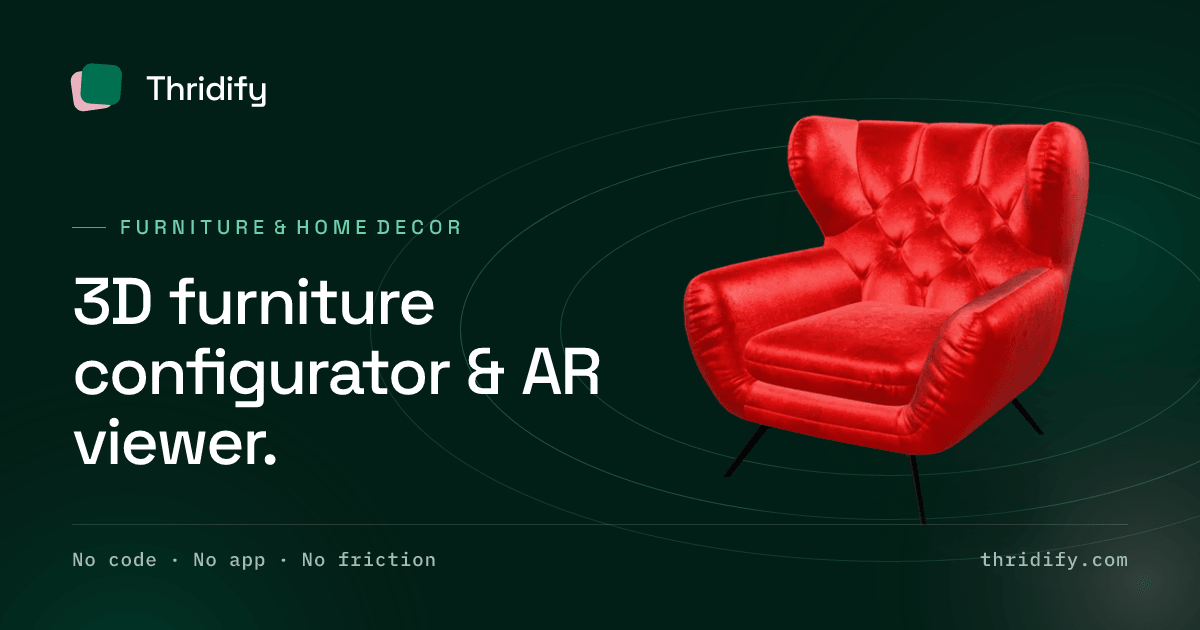
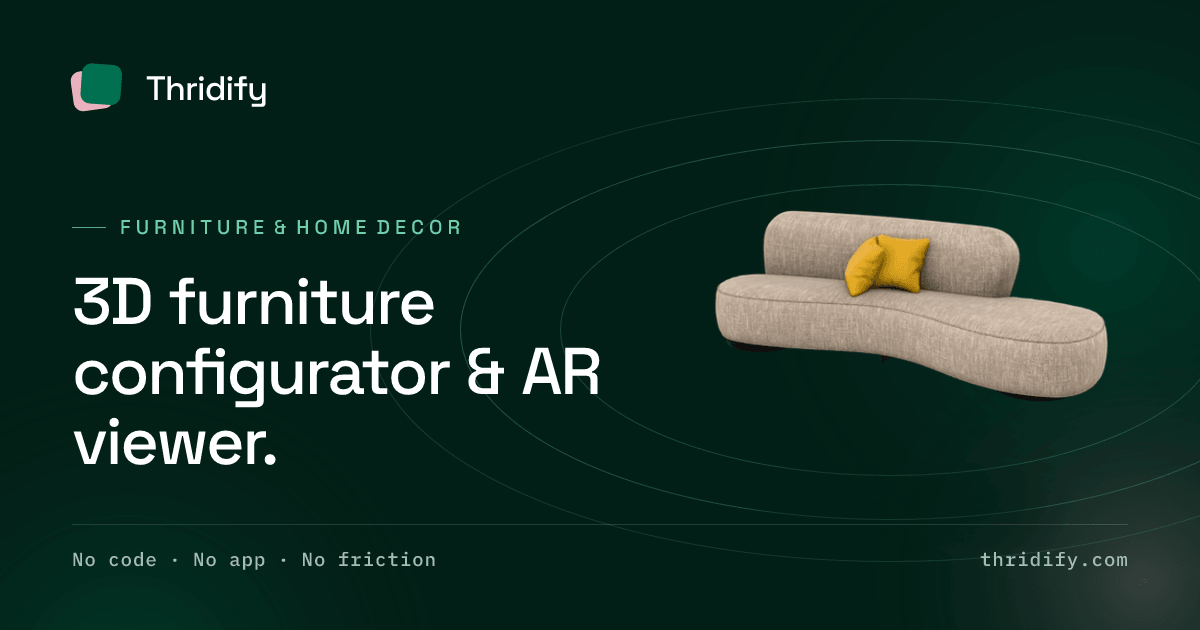
feat(imagery): user-selected Thridify products on the industries hub, with variant and veneer switches
Hub cards + industry OGs now use the six products chosen for each vertical
(admin preview ids in src/lib/industries.ts), rendered from their own GLBs:

- Furniture: Store Living Room Sofa, turntable
- Kitchens & wardrobes: Modern Wardrobe, default variant with its Maple Dark
  design texture applied, front sway
- Doors & windows: Door — all eight real variants rendered from one fixed
  camera and cross-faded (variant switch)
- Prefab: Studio Apartment, roofless dollhouse view from above, turntable
  (prefab previously had no art)
- Industrial machinery: industrial water cooler, Pink variant, turntable
- Laminates: single-wall kitchen cycling eight Woodlark veneers via live
  base-colour texture swaps (finish switch)

Preview ids resolve through api.thridify.com (GLB, variants, hiddenMeshes,
design textures); the renderer keeps one variant's root nodes, can pre-apply
design textures and swap them per frame. Reduced-motion still frames kept.

Changed region(s): [[0.555, 0.181, 0.925, 0.8143], [0.5858, 0.7238, 0.6167, 0.754]]

diff --git a/src/lib/industries.ts b/src/lib/industries.ts
@@ -69,14 +69,13 @@ export type Industry = {
       docs/ASSET-DEBT.md). Real client models replace these later (#16). */
   demoModel?: string;
   demoPoster?: string;
-  /** Hub-card + OG artwork: a transparent render of the REAL Thridify
-      demo-store product this industry's live hero shows (INDUSTRY_EXPERIENCE
-      in src/lib/thridify.ts), rendered from the product's own GLB with
-      <model-viewer> — `still` is one frame, `turn` a slow animated WebP
-      (turntable or a limited sway where the object only reads from one
-      side). Served with a reduced-motion <picture> fallback to the still.
-      Absent when the live product has no usable object render (prefab's
-      "realistic room" is an enclosed interior — docs/ASSET-DEBT.md #19). */
+  /** Hub-card + OG artwork: a transparent render of a REAL Thridify product
+      chosen per industry (admin preview ids in the comments below), rendered
+      from the product's own GLB with <model-viewer> — `still` is one frame,
+      `turn` a slow animated WebP: a turntable, a limited sway, or a
+      variant / finish switch cross-fading through the product's real
+      options. Served with a reduced-motion <picture> fallback to the still.
+      Pipeline + product list: docs/ASSET-DEBT.md #19. */
   hubArt?: { still: string; turn: string; alt: string };
   primaryKeyword: string;
   keywords: string[];
@@ -106,10 +105,11 @@ export const INDUSTRIES: Industry[] = [
     heroDemo: 'ar',
     demoModel: '/models/furniture-vase.glb',
     demoPoster: '/models/furniture-vase-poster.webp',
+    // admin.thridify.com/p/1fxaka — Store Living Room Sofa (turntable)
     hubArt: {
       still: '/models/hub-furniture-still.webp',
       turn: '/models/hub-furniture-turn.webp',
-      alt: 'Store Modern Sofa — the live Thridify demo product on this page, rendered in 3D',
+      alt: 'Store Living Room Sofa — a Thridify 3D product, rotating',
     },
     primaryKeyword: '3D furniture configurator',
     keywords: [
@@ -181,10 +181,11 @@ export const INDUSTRIES: Industry[] = [
     heroDemo: 'configurator',
     demoModel: '/models/kitchen-teacup.glb',
     demoPoster: '/models/kitchen-teacup-poster.webp',
+    // admin.thridify.com/p/dcnt2x — Modern Wardrobe, Maple Dark finish (sway)
     hubArt: {
-      still: '/models/hub-kitchen-still.webp',
-      turn: '/models/hub-kitchen-turn.webp',
-      alt: 'Store ModularKitchen — the live Thridify demo kitchen on this page, rendered in 3D',
+      still: '/models/hub-wardrobe-still.webp',
+      turn: '/models/hub-wardrobe-turn.webp',
+      alt: 'Modern Wardrobe in Maple Dark — a Thridify 3D product',
     },
     primaryKeyword: 'modular kitchen 3D design tool',
     keywords: [
@@ -256,10 +257,11 @@ export const INDUSTRIES: Industry[] = [
     heroDemo: 'configurator',
     demoModel: '/models/doors-lantern.glb',
     demoPoster: '/models/doors-lantern-poster.webp',
+    // admin.thridify.com/p/gmqb_q — Door, cycling its eight real variants
     hubArt: {
       still: '/models/hub-door-still.webp',
       turn: '/models/hub-door-turn.webp',
-      alt: 'DNV Door — the live Thridify demo door on this page, rendered in 3D',
+      alt: 'A Thridify 3D door product switching between its eight variants',
     },
     primaryKeyword: 'door & window configurator',
     keywords: [
@@ -328,6 +330,12 @@ export const INDUSTRIES: Industry[] = [
     name: 'Prefab & Modular Structures',
     gridName: 'Prefab & Modular Structures',
     icon: 'prefab',
+    // admin.thridify.com/p/cmbneh — Studio Apartment, roofless dollhouse view (turntable)
+    hubArt: {
+      still: '/models/hub-studio-still.webp',
+      turn: '/models/hub-studio-turn.webp',
+      alt: 'Studio apartment — a Thridify 3D space seen from above, rotating',
+    },
     heroDemo: 'viewer',
     primaryKeyword: 'prefab 3D configurator',
     keywords: [
@@ -399,10 +407,11 @@ export const INDUSTRIES: Industry[] = [
     heroDemo: 'viewer',
     demoModel: '/models/machinery-camera.glb',
     demoPoster: '/models/machinery-camera-poster.webp',
+    // admin.thridify.com/p/34zvplz0gw8 — industrial water cooler, Pink variant (turntable)
     hubArt: {
-      still: '/models/hub-robot-still.webp',
-      turn: '/models/hub-robot-turn.webp',
-      alt: 'RobotExpressive — the live Thridify automation demo on this page, rendered in 3D',
+      still: '/models/hub-cooler-still.webp',
+      turn: '/models/hub-cooler-turn.webp',
+      alt: 'Industrial water cooler — a Thridify 3D product, rotating',
     },
     primaryKeyword: '3D product viewer for machinery',
     keywords: [
@@ -474,10 +483,11 @@ export const INDUSTRIES: Industry[] = [
     heroDemo: 'configurator',
     demoModel: '/models/surfaces-material.glb',
     demoPoster: '/models/surfaces-material-poster.webp',
+    // admin.thridify.com/p/zmg1cx — single-wall kitchen cycling Woodlark veneers
     hubArt: {
-      still: '/models/hub-laminate-still.webp',
-      turn: '/models/hub-laminate-turn.webp',
-      alt: 'Merino Marine Board — the live Thridify demo laminate on this page, rendered in 3D',
+      still: '/models/hub-veneer-still.webp',
+      turn: '/models/hub-veneer-turn.webp',
+      alt: 'A Thridify 3D kitchen switching between Woodlark veneer finishes',
     },
     primaryKeyword: 'laminate visualizer',
     keywords: [

diff --git a/src/app/industries/page.tsx b/src/app/industries/page.tsx
@@ -124,7 +124,7 @@ export default function IndustriesPage() {
                       <Icon className="w-6 h-6" strokeWidth={1.5} aria-hidden />
                     </span>
                     {ind.hubArt && (
-                      <span className="relative w-36 h-36 -mr-6 -mt-10 shrink-0">
+                      <span className="relative w-36 h-36 -mr-5 -mt-5 shrink-0">
                         <span className="absolute inset-3 rounded-full bg-primary/10 blur-2xl group-hover:bg-primary/15 transition-colors" aria-hidden />
                         <picture>
                           <source srcSet={ind.hubArt.still} media="(prefers-reduced-motion: reduce)" />

diff --git a/docs/ASSET-DEBT.md b/docs/ASSET-DEBT.md
@@ -23,7 +23,7 @@ entries; only the user (or real assets) can clear them.
 | 14 | Real product-render OG images (1200×630) per page | **REBUILT IN THE LUXURY DESIGN LANGUAGE (2026-09-09):** `scripts/generate-og.mjs` now renders via satori + resvg (Space Grotesk / Inter / IBM Plex Mono, fetched + cached on first run) — ink ground, layered teal + one-pink light fields, hairline orbits, mono kicker — and composites the page's OWN seamless demo poster (`public/models/*-poster.webp`, the CC0 stand-ins of #19) where one exists (home/default/platform/3D-modelling → chair; five industries → their industry model; prefab has none). Added per-page OGs for `/features`, `/what-is-thridify`, `/industries`, `/integrations` and all 12 `/integrations/<slug>` (typographic, no third-party logos). Still placeholders in the sense of #16/#19: when real client models land, re-render the posters and re-run the script. Previously: brand-colored generated statics at `public/og/*.png` (regenerate with `node scripts/generate-og.mjs`); wired via per-page `openGraph.images` + `metadataBase` (SITE_URL env, currently the workers.dev preview — switch to the production host at Phase 7). **CHUNK 3 (2026-08-02) added six per-industry OGs** `public/og/industry-<slug>.png` (furniture, modular-kitchens, doors-and-windows, prefab-structures, industrial-machinery, laminates-surfaces) — same brand-placeholder treatment; replace each with a real per-industry product render | 2, 6, 7 |
 | 15 | Real team / office / founder photography for the About page (or a decision to stay abstract) | Phase 2 removed ALL Unsplash stock (DESIGN-SPEC §6); About now uses brand logo-geometry only | 2, 6 |
 | 16 | **Real Thridify experience embeds** (the actual configurator on the actual SDK) for the hero, the BeforeAfter "live 3D", and every `CapabilityDemo` (home trio + platform) | Placeholder first-party CC0 SheenChair (`public/models/sheen-chair.glb`) driven via `<model-viewer>`. Blocked on the SDK standalone-embed work specified in `docs/integration/HERO-EMBED-REQUIREMENTS.md` + `SDK-EMBED-PROPOSAL.md` (stable experience id, `thridify-marketing` demo account, origin allowlist, poster/LCP contract, events API). When it lands: swap `<model-viewer>` for `Thridify.mount()`, and regenerate every poster from the real experience's first frame (#9 rule). Also supplies the real product photo + matching model for the BeforeAfter "flat photo vs same product in 3D" comparison | 2, 5, 6 |
-| 19 | **HUB CARDS + INDUSTRY OGs NOW SHOW THE REAL DEMO-STORE PRODUCTS (2026-09-09):** `Industry.hubArt` renders (`public/models/hub-<x>-{still,turn}.webp`) are transparent turntables/sways of the ACTUAL Thridify demo products each industry page shows live (Store Modern Sofa, Store ModularKitchen, DNV Door, RobotExpressive, Merino Marine Board), rendered from their own GLBs with `<model-viewer>` (scratchpad `render-turntable.mjs` + `assemble.mjs`; re-render when the demo products change). Prefab has none: its live product ("realistic room") is an enclosed interior with a roof — no usable object render; wants a real prefab/cabin model. The CC0 stand-ins below remain ONLY as the `CapabilityDemo` fallback models. **Per-industry demo models (Phase 3 Wave A, CHUNK 3, 2026-08-02).** Each industry page now shows a DISTINCT, industry-relevant CC0 model instead of the generic hero chair, via `CapabilityDemo` `model`/`poster`/`modelLabel` props + `Industry.demoModel/demoPoster` (`src/lib/industries.ts`). All self-hosted in `public/models/`, draco+WebP-optimised ≤2MB, with seamless posters (§6). Provenance: `public/models/SOURCES.md` (all CC0 1.0, Khronos glTF-Sample-Assets). Mapping: furniture→GlassVaseFlowers (home decor, good); modular-kitchens→teacup (closest CC0 kitchenware — want a real cabinet/kitchen unit); doors-and-windows→Lantern (closest CC0 glass fixture — want a real door/window); industrial-machinery→AntiqueCamera (closest CC0 mechanical apparatus — want real equipment); laminates-surfaces→MetalRoughSpheres material sample (reasonable). **PREFAB & MODULAR STRUCTURES: NO usable CC0 structure/building model exists** (VirtualCity = testing-license-only; Sponza = LFS-gated), so `/industries/prefab-structures` still uses the chair fallback — awaiting a real structure model. ALL SIX ultimately want real client models (#16); replace + regenerate posters then | 2, 6 |
+| 19 | **HUB CARDS + INDUSTRY OGs SHOW REAL THRIDIFY PRODUCTS (2026-09-09, user-selected):** `Industry.hubArt` renders (`public/models/hub-<x>-{still,turn}.webp`, 300–520 KB animated WebP + a still for reduced motion) come from the products' own GLBs rendered with `<model-viewer>` in headless Chrome: furniture → Store Living Room Sofa `p/1fxaka` (turntable); kitchens & wardrobes → Modern Wardrobe `p/dcnt2x`, default variant with its Maple Dark design texture applied (sway); doors → Door `p/gmqb_q`, all EIGHT variants rendered from one fixed camera and cross-faded (variant switch); prefab → Studio Apartment `p/cmbneh`, roofless dollhouse view from above (turntable); machinery → industrial water cooler `p/34zvplz0gw8`, Pink variant textures applied (turntable); laminates → single-wall kitchen `p/zmg1cx` cycling eight Woodlark veneers (H41, H5, H17, H28, H50, H61, H70, H1) via live base-colour swaps (finish switch). Preview ids resolve through `api.thridify.com/v2/customer/product/preview/<id>` (GLB url, variants + hiddenMeshes, design textures). Pipeline lives in the session scratchpad (`resolve.mjs`, `pick-scene.mjs` keeps one variant's root nodes, `render-turntable.mjs` with `pretex`/`swap`, `assemble.mjs`, `assemble-switch.mjs`) — re-run when products change. The CC0 stand-ins below remain ONLY as the `CapabilityDemo` fallback models. **Per-industry demo models (Phase 3 Wave A, CHUNK 3, 2026-08-02).** Each industry page now shows a DISTINCT, industry-relevant CC0 model instead of the generic hero chair, via `CapabilityDemo` `model`/`poster`/`modelLabel` props + `Industry.demoModel/demoPoster` (`src/lib/industries.ts`). All self-hosted in `public/models/`, draco+WebP-optimised ≤2MB, with seamless posters (§6). Provenance: `public/models/SOURCES.md` (all CC0 1.0, Khronos glTF-Sample-Assets). Mapping: furniture→GlassVaseFlowers (home decor, good); modular-kitchens→teacup (closest CC0 kitchenware — want a real cabinet/kitchen unit); doors-and-windows→Lantern (closest CC0 glass fixture — want a real door/window); industrial-machinery→AntiqueCamera (closest CC0 mechanical apparatus — want real equipment); laminates-surfaces→MetalRoughSpheres material sample (reasonable). **PREFAB & MODULAR STRUCTURES: NO usable CC0 structure/building model exists** (VirtualCity = testing-license-only; Sponza = LFS-gated), so `/industries/prefab-structures` still uses the chair fallback — awaiting a real structure model. ALL SIX ultimately want real client models (#16); replace + regenerate posters then | 2, 6 |
 | 18 | **Positioning correction — "3D Content Generation" → "3D Modelling Service" (Phase 3 Wave A, CHUNK 1, 2026-08-02).** Thridify does NOT do automated 3D content generation; module #4 is now a human-delivered **3D Modelling Service** (catalog → photoreal glTF/GLB/USDZ, done-for-you). Replaced sitewide: `content/site.json` (platform product #4 id `content`→`modelling`, platform hero subtitle, about mission body, furniture industry blurb, footer Platform link → `/services/3d-modelling`); `ProductVisual` variant `content`→`modelling`; `/platform` metadata + a deep-dive link to the service page; new SEO page `src/app/services/3d-modelling/page.tsx` (Service + FAQPage + BreadcrumbList JSON-LD, wedge copy) added to sitemap + linked from every industry page; new OG `public/og/services-3d-modelling.png`. **KNOWLEDGE-BANK CORRECTION NEEDED (out of repo scope — orchestrator action):** the `thridify-business` KNOWLEDGE-BANK skill still lists "3D Content Generation" as product #4 and must be corrected to "3D Modelling Service" so future generations don't reintroduce the automated-content-gen claim | done — verify KB corrected before Phase 7 |
 | 20 | **`/robots.txt` + `/llms.txt` platform-edge interception + Cloudflare content-signals robots (Phase 3 Wave B, CHUNK 4, 2026-08-03).** The site now serves its own `/robots.txt` (AI-crawler allowlist: OAI-SearchBot, ChatGPT-User, GPTBot, ClaudeBot, Claude-Web, Google-Extended, PerplexityBot, Applebot-Extended + `Sitemap:` ref) and `/llms.txt` (canonical description + factual bullets) via route handlers (`src/app/robots.txt/route.ts`, `src/app/llms.txt/route.ts`). **Two edge caveats, NOT fixable in this repo:** (a) On the platform host `team-website-moj7aqqd.sites.tyashin.com`, the Tyashin platform edge INTERCEPTS **`/robots.txt`, `/sitemap.xml` AND `/llms.txt`** (same mechanism as `/blog`, #17 — no `X-Robots-Tag` on those responses proves our Worker never ran) and serves platform-owned versions: a generic `User-agent: *` robots, a 3-URL default sitemap (`/`, `/contact`, `/about` only — NOT our 19-URL sitemap), and a 404 for `/llms.txt`. Normal HTML pages (incl. the new `/what-is-thridify` and `/compare/*`) DO dispatch to our Worker on this host and are correct; only these three SEO endpoints are edge-owned. **Phase-7 action (platform admin):** set the per-page ownership override to `storefront` for `/robots.txt`, `/sitemap.xml` and `/llms.txt` so the site's own Worker serves them on any custom domain routed through the platform edge. The raw worker host serves all three correctly today (verified 2026-08-03: robots ours + all 8 AI bots + Sitemap ref; llms.txt 200 with canonical description; sitemap 19 URLs). (b) On the raw worker host `site-thridify.snowy-cherry-cd2c.workers.dev`, `/robots.txt` may be overridden by Cloudflare's managed "content-signals" robots.txt (a workers.dev-level feature) — confirm our route wins after this deploy; if not, it is a Cloudflare zone setting, not a repo defect. **Both are Phase-7 verification items on the real production host.** | 7 |
 | 21 | **Growth-surface canonical/OG/llms URLs still point at the preview host.** `/what-is-thridify`, `/compare/*`, `/llms.txt` and all new schema `url`/`sameAs`/breadcrumb `item` values resolve against `SITE_URL` (currently the workers.dev preview). The Phase-7 cutover must set `SITE_URL=https://www.thridify.com` (or the chosen canonical host) in the deploy env so every canonical, OG, sitemap and llms.txt URL flips together. Logged, not blocking (per contract). | 7 |
